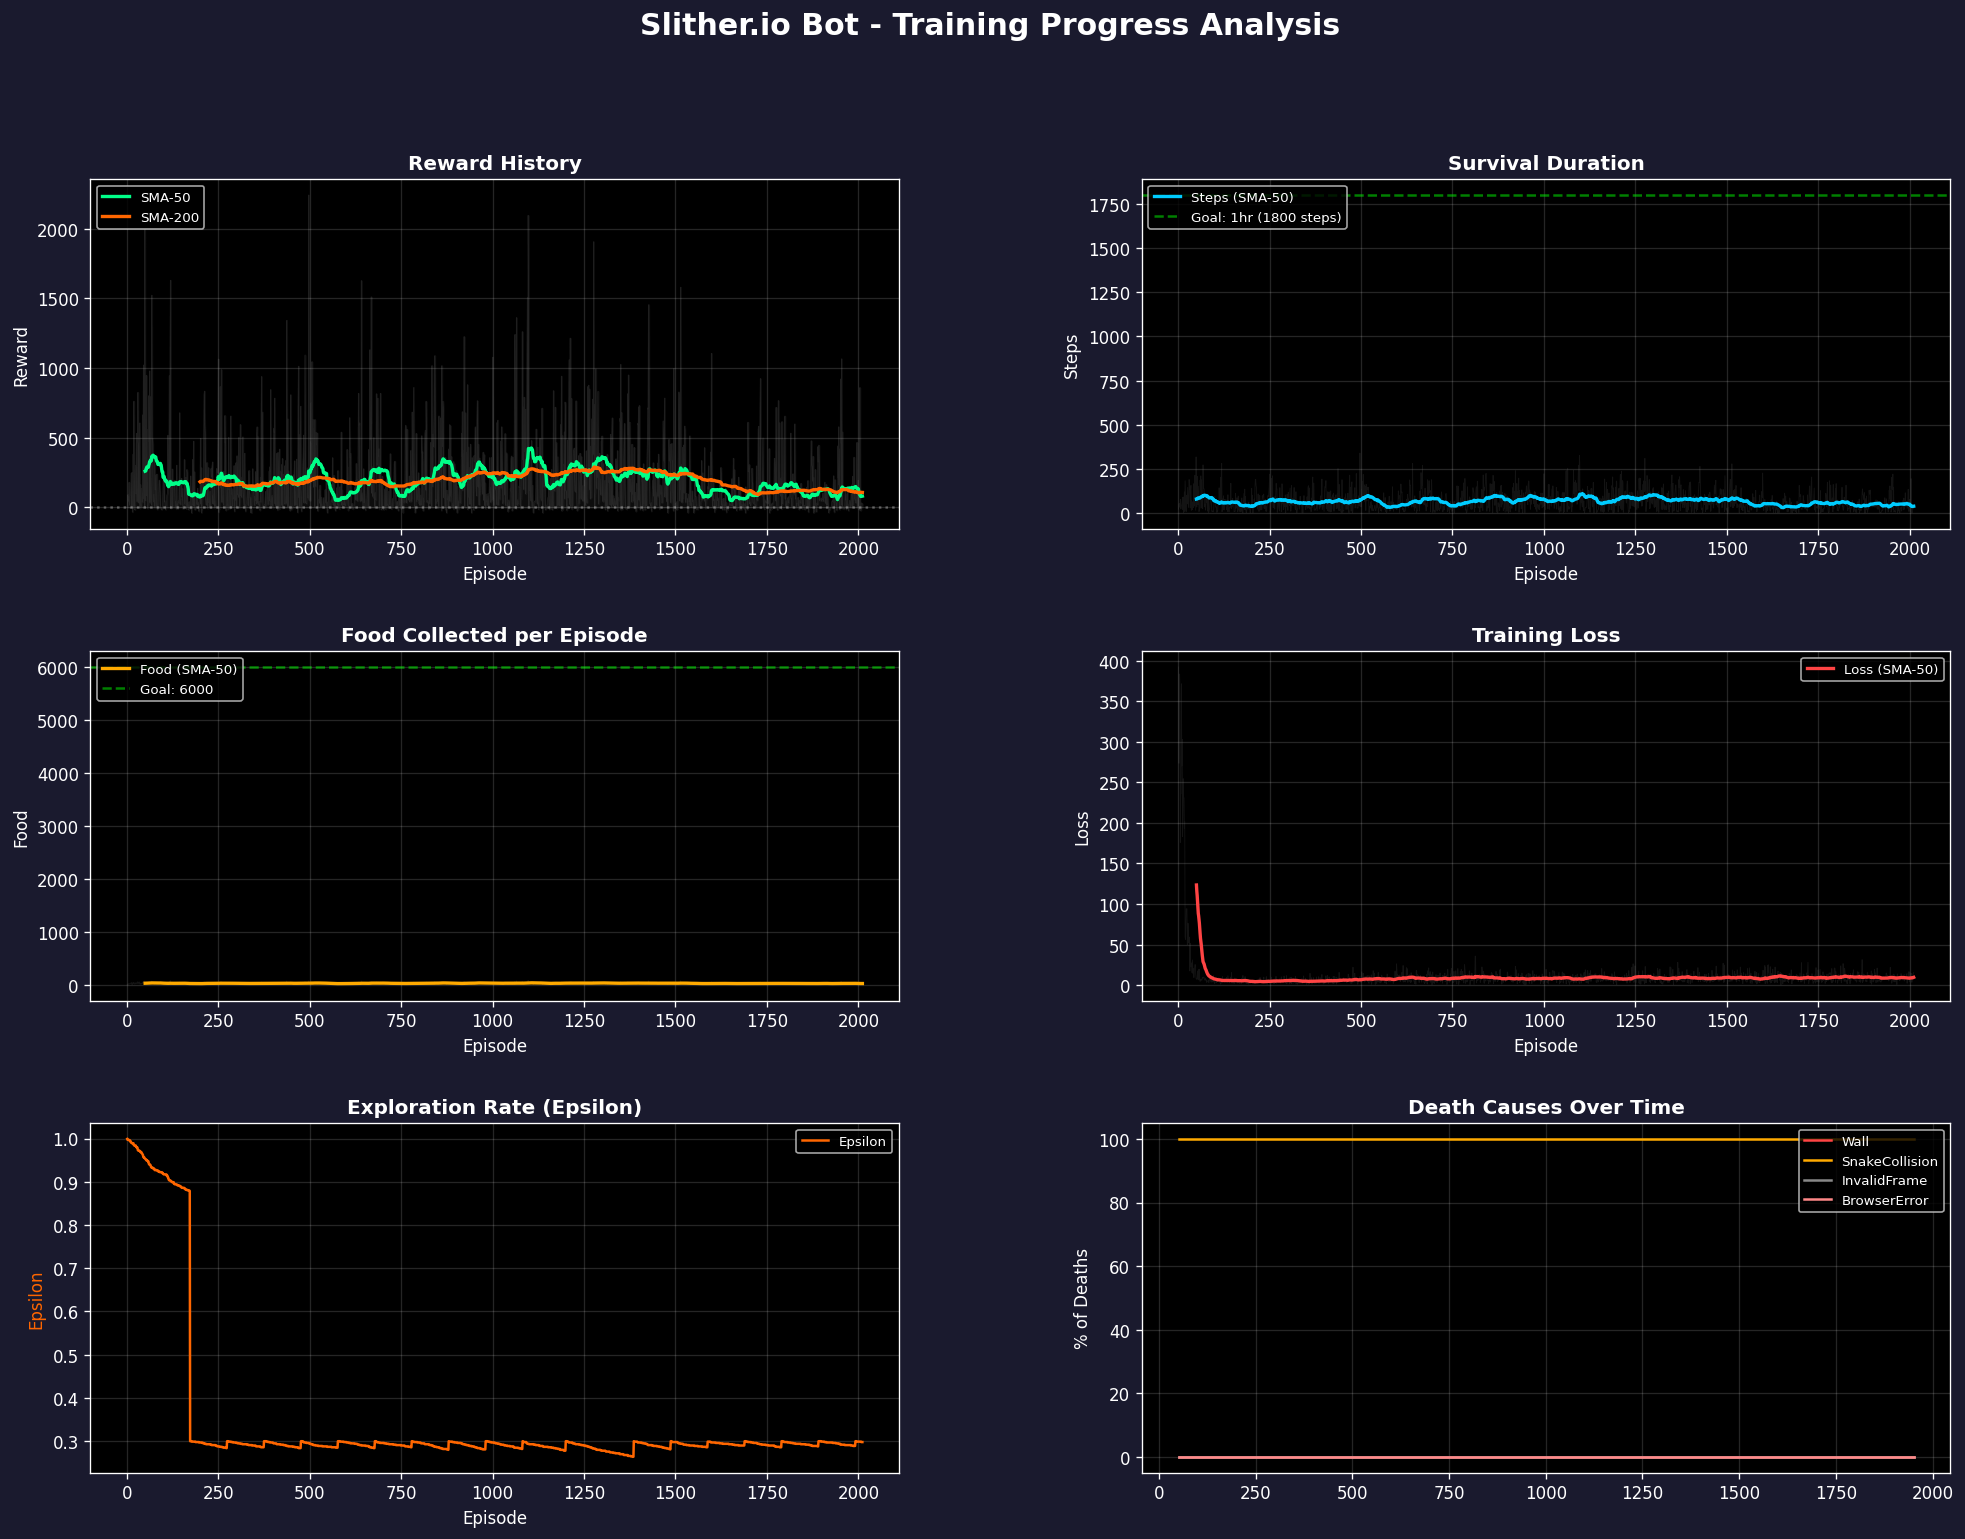
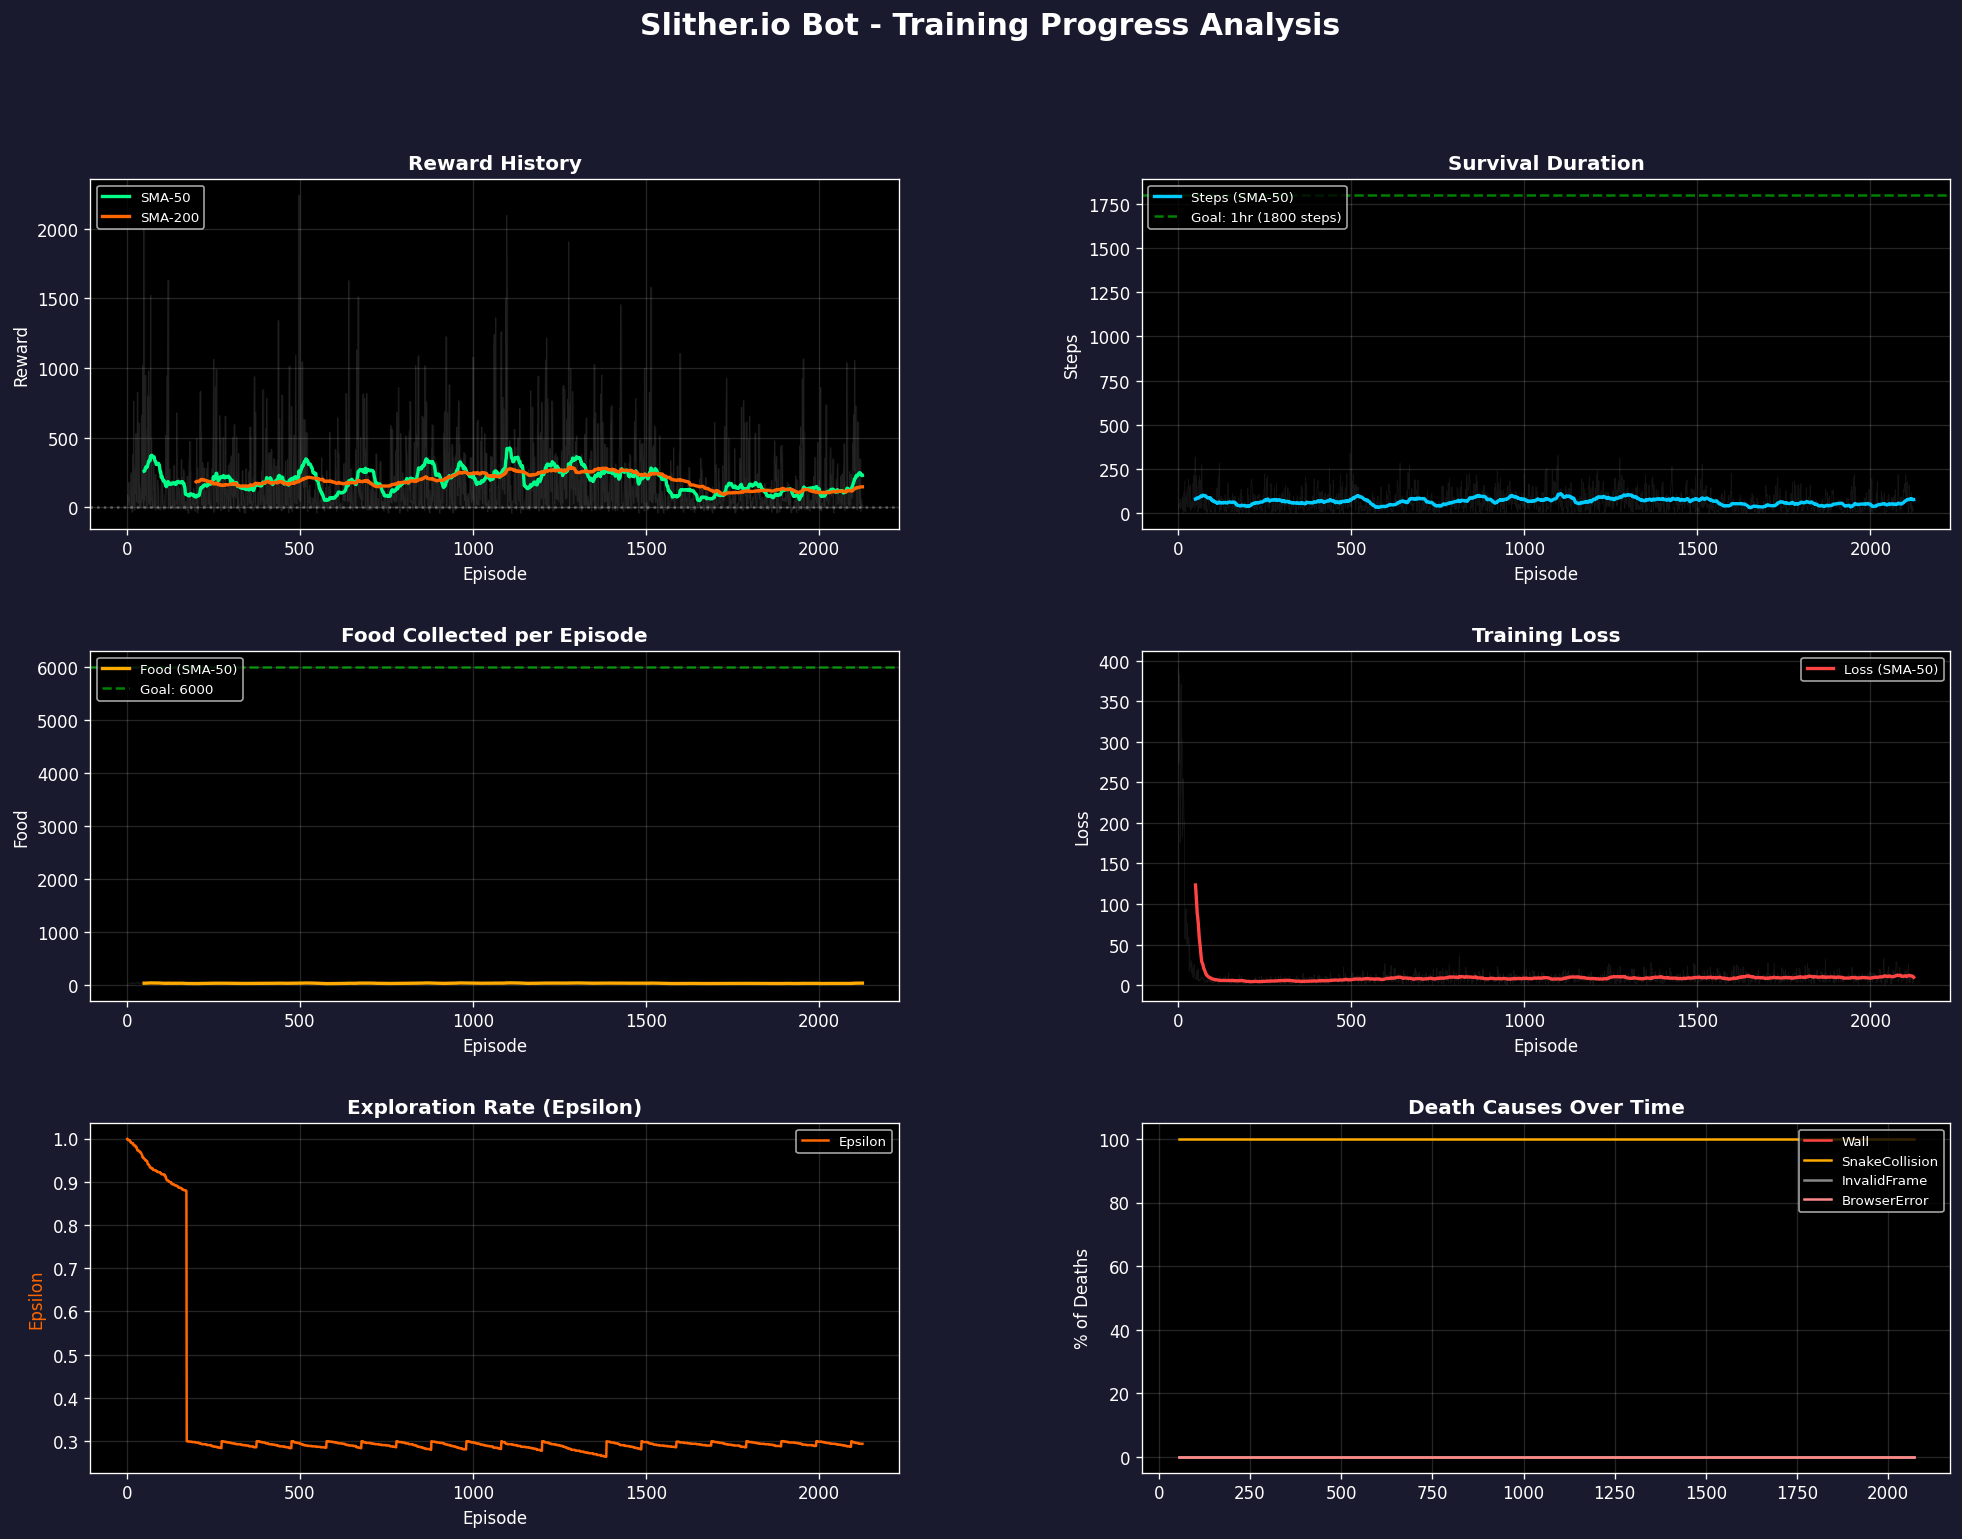
stats

diff --git a/gen2/progress_report.md b/gen2/progress_report.md
@@ -1,7 +1,7 @@
 # Slither.io Bot - Training Progress Report
 
-**Generated:** 2026-02-13 01:16:14  
-**Total Episodes:** 2011  
+**Generated:** 2026-02-13 01:26:18  
+**Total Episodes:** 2125  
 **Training Sessions:** 1
 
 ## Verdict: NOT LEARNING (Confidence: 45%)
@@ -9,16 +9,16 @@
 **Goal Feasibility:** UNLIKELY (5-25% chance) without tuning
 
 ### Warnings
-- Rewards flat: change = -6.5 between halves
+- Rewards flat: change = -14.9 between halves
 
 ## Key Statistics
 
 | Metric | Mean | Std | Min | Max | P50 | P95 |
 |--------|------|-----|-----|-----|-----|-----|
-| Reward | 190.60 | 260.19 | -38.58 | 2242.28 | 92.30 | 710.05 |
-| Steps | 66.08 | 54.39 | 2.00 | 340.00 | 51.00 | 172.50 |
-| Food | 28.34 | 10.75 | 0.00 | 84.00 | 25.00 | 48.50 |
-| Loss | 11.08 | 26.66 | 0.47 | 392.24 | 7.37 | 19.68 |
+| Reward | 189.34 | 257.43 | -38.58 | 2242.28 | 92.32 | 701.15 |
+| Steps | 65.91 | 53.96 | 2.00 | 340.00 | 51.00 | 171.00 |
+| Food | 28.33 | 10.68 | 0.00 | 84.00 | 26.00 | 48.00 |
+| Loss | 11.06 | 25.99 | 0.47 | 392.24 | 7.47 | 20.20 |
 
 ## Goal Progress
 
@@ -31,7 +31,7 @@
 
 | # | Style | Episodes | Avg Reward | Avg Steps |
 |---|-------|----------|------------|----------|
-| 1 | Standard (Curriculum) | 1-2011 | 190.6 | 66 |
+| 1 | Standard (Curriculum) | 1-2125 | 189.3 | 66 |
 
 ## Recommendations
 
